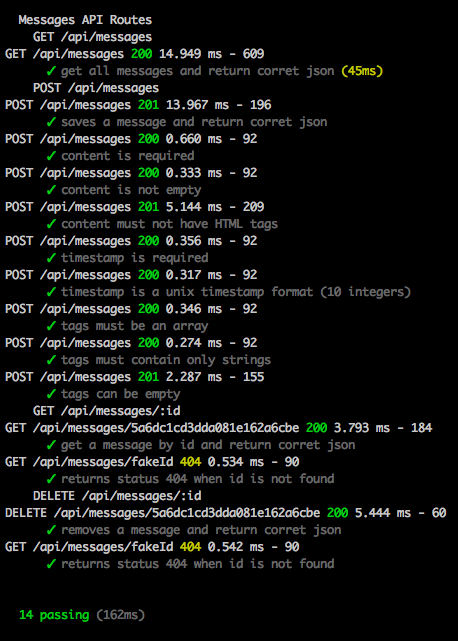
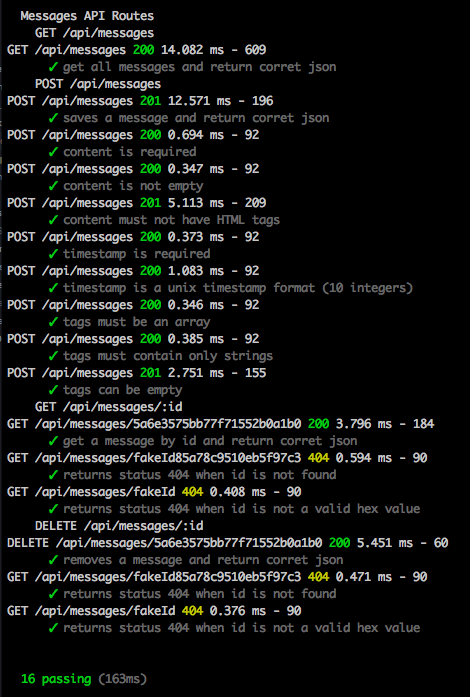
add validId as middleware

Changed region(s): [[0.0, 0.0, 0.9782, 0.9048], [0.0306, 0.936, 0.3362, 0.9984]]

diff --git a/routes/api.js b/routes/api.js
@@ -5,7 +5,7 @@ var Message = require("../models/message");
 /* GET all messages */
 router.get('/messages', getMessages, function(req, res) {
   res.locals.messages.find({}, {}, function(err, doc) {
-    if (err || doc == null) {
+    if (err || doc === null) {
       sendJsonError(res);
     } else {
       sendJsonMessageSuccess(res, doc);
@@ -23,7 +23,7 @@ router.post('/messages', getMessages, validateMessage, function(req, res) {
     tags: req.body.tags || []
     
   }, function(err, doc) {
-    if (err || doc == null) {
+    if (err || doc === null) {
       sendJsonError(res);
     } else {
       res.statusCode = 201;
@@ -33,31 +33,25 @@ router.post('/messages', getMessages, validateMessage, function(req, res) {
 });
 
 /* GET message */
-router.get('/messages/:id', getMessages, function(req, res) {
-  if (Message.validId(req.params.id)) {
-    res.locals.messages.findOne({_id: req.params.id}, {}, function(err, doc) {
-      if (err) {
-        sendJsonError(res);
-      } else if (doc == null) {
-        res.statusCode = 404;
-        sendJsonError(res);
-      } else {
-        sendJsonMessageSuccess(res, doc);
-      }
-    });
-    
-  } else {
-    res.statusCode = 404;
-    sendJsonError(res);
-  }
+router.get('/messages/:id', getMessages, validateId, function(req, res) {
+  res.locals.messages.findOne({_id: req.params.id}, {}, function(err, doc) {
+    if (err) {
+      sendJsonError(res);
+    } else if (doc === null) {
+      res.statusCode = 404;
+      sendJsonError(res);
+    } else {
+      sendJsonMessageSuccess(res, doc);
+    }
+  });
 });
 
 /* DELETE message */
-router.delete('/messages/:id', getMessages, function(req, res) {
+router.delete('/messages/:id', getMessages, validateId, function(req, res) {
   res.locals.messages.findOneAndDelete({_id: req.params.id}, {}, function(err, doc) {
     if (err) {
       sendJsonError(res);
-    } else if (doc == null) {
+    } else if (doc === null) {
       res.statusCode = 404;
       sendJsonError(res);
     } else {
@@ -78,6 +72,15 @@ function validateMessage (req, res, next) {
     next();
   } else {
     sendJsonError(res, "Validation error: Message could not be created");
+  }
+}
+
+function validateId(req, res, next) {
+  if (Message.validId(req.params.id)) {
+    next();
+  } else {
+    res.statusCode = 404;
+    sendJsonError(res);
   }
 }
 

diff --git a/test/routes/apiSpec.js b/test/routes/apiSpec.js
@@ -158,6 +158,14 @@ describe('Messages API Routes', function() {
     });
   
     it('returns status 404 when id is not found', function(done) {
+      request.get('/api/messages/fakeId85a78c9510eb5f97c3')
+        .expect(404)
+        .end(function(err, res) {
+          done(err);
+        });
+    });
+    
+    it('returns status 404 when id is not a valid hex value', function(done) {
       request.get('/api/messages/fakeId')
         .expect(404)
         .end(function(err, res) {
@@ -181,6 +189,14 @@ describe('Messages API Routes', function() {
     });
       
     it('returns status 404 when id is not found', function(done) {
+      request.get('/api/messages/fakeId85a78c9510eb5f97c3')
+        .expect(404)
+        .end(function(err, res) {
+          done(err);
+        });
+    });
+    
+    it('returns status 404 when id is not a valid hex value', function(done) {
       request.get('/api/messages/fakeId')
         .expect(404)
         .end(function(err, res) {
